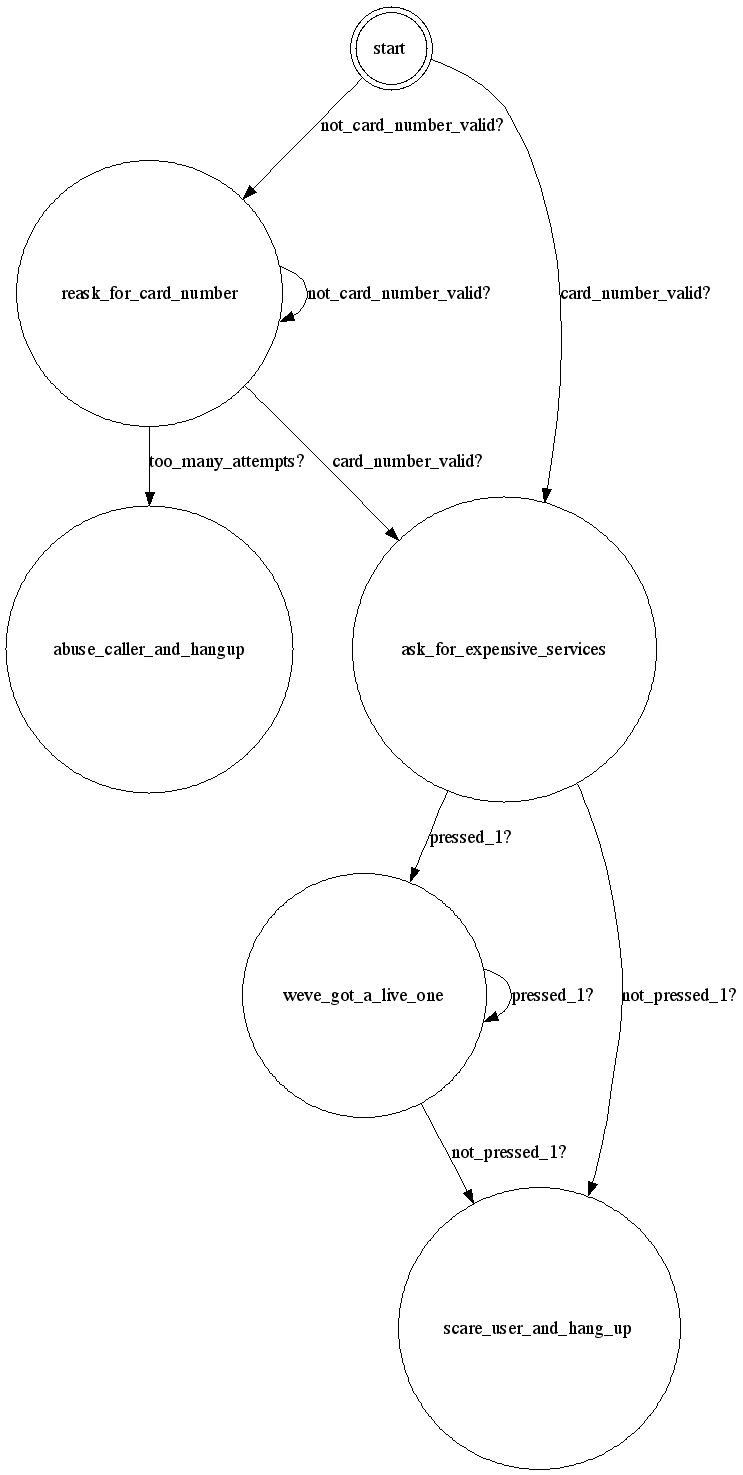
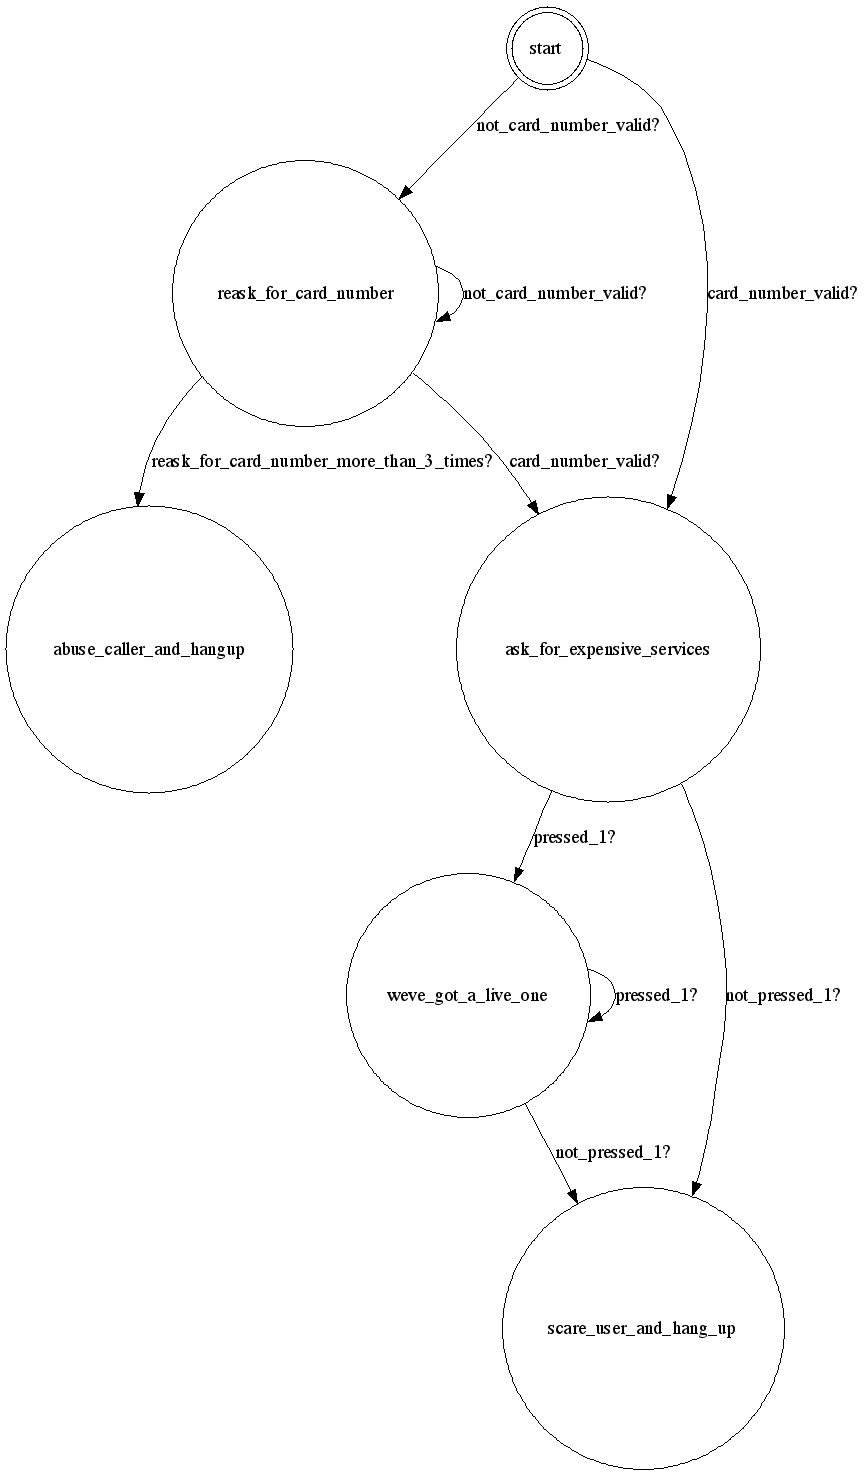
workflow view, showing png graph w/size toggle

diff --git a/twilio-app/public/javascripts/workflow.js b/twilio-app/public/javascripts/workflow.js
@@ -1,0 +1,43 @@
+var Workflow = function () {
+  var self = {}, imageStates = {};
+
+  self.imageStates = imageStates;
+
+  self.initialize = function () {
+    console.log("binding to click for the image...");
+    $('#workflow-graph').click(self.toggleWorkflowImageSize);
+  };
+
+  self.toggleWorkflowImageSize = function (event) {
+    console.log("toggle the workflow image size");
+    self.x = event;
+    var img = event.target;
+    if ( imageStates[img.src] == null ) {
+      console.log("initializing for %s", img.src);
+      imageStates[img.src] = {
+        state: "min",
+        naturalHeight: img.naturalHeight,
+        naturalWidth:  img.naturalWidth,
+        reducedHeight: img.clientHeight,
+        reducedWidth:  img.clientWidth
+      };
+    }
+
+    if ( imageStates[img.src].state == "min" ) {
+      console.log("maximizing");
+      imageStates[img.src].state = "max";
+      $(img).height(imageStates[img.src].naturalHeight);
+      $(img).width(imageStates[img.src].naturalWidth);
+    }
+    else {
+      console.log("restoring");
+      imageStates[img.src].state = "min";
+      $(img).height(imageStates[img.src].reducedHeight);
+      $(img).width(imageStates[img.src].reducedWidth);
+    }
+  };
+
+  return self;
+}();
+
+$().ready(Workflow.initialize);

diff --git a/twilio-app/public/stylesheets/app.css b/twilio-app/public/stylesheets/app.css
@@ -1,9 +1,42 @@
+body {
+  background-image:      url(/images/awesome-ivr-official-seal-a6.7.png);
+  background-repeat:     no-repeat;
+  background-attachment: fixed;
+  background-position:   center; 
+  opacity: 25%;
+}
+
+#header {
+  height: 1em;
+  padding: 0.25em;
+  margin: 0.25em;
+}
+
 #left-bar {
   border: 1px solid #CCC;
   padding: 3px;
+  margin: 0.25em;
 }
 
 #main-content {
   border: 1px solid #CCC;
   padding: 3px;
+  margin: 0.25em;
+}
+
+#error-flash {
+  color: red;
+}
+
+.center {
+  margin-left: auto;
+  margin-right: auto;
+}
+.workflow-graph {
+  border: 1px solid #CCC;
+}
+
+.workflow-graph img {
+  width: 300px;
+  display: block;
 }

diff --git a/twilio-app/public/javascripts/application.js b/twilio-app/public/javascripts/application.js
@@ -1,2 +1,13 @@
 // Place your application-specific JavaScript functions and classes here
 // This file is automatically included by javascript_include_tag :defaults
+
+var Ivr = function() {
+  var self = {};
+
+  self.initialize = function () {
+  };
+
+  return self;
+}();
+
+$().ready(Ivr.initialize);

diff --git a/twilio-app/app/ivr_workflows/ccard.rb b/twilio-app/app/ivr_workflows/ccard.rb
@@ -16,7 +16,7 @@ card number, we attempt to upsel them on
     end
 
     state :reask_for_card_number do
-      transitions_to :abuse_caller_and_hangup,    :if => :too_many_attempts?
+      transitions_to :abuse_caller_and_hangup,    :if => :reask_for_card_number_more_than_3_times?
       transitions_to :reask_for_card_number,      :if => :not_card_number_valid?
       transitions_to :ask_for_expensive_services, :if => :card_number_valid?
     end

diff --git a/twilio-app/app/controllers/workflow_controller.rb b/twilio-app/app/controllers/workflow_controller.rb
@@ -1,3 +1,12 @@
 class WorkflowController < ApplicationController
   layout 'site'
+
+  def show
+    name = params[:id]
+    @workflow = Ivrflow.new_workflow name
+    @graph_png = "/workflows/#{name.downcase}.png"
+    if !File.exist?("#{RAILS_ROOT}/public#{@graph_png}")
+      flash[:error] = "You need to run 'rake ivr:render_workflows' in your app to generate the workflow graphs."
+    end
+  end
 end

diff --git a/twilio-app/lib/ivrflow.rb b/twilio-app/lib/ivrflow.rb
@@ -6,10 +6,18 @@ class Ivrflow
     @@ivr_flows
   end
 
+  def self.new_workflow name
+    if @@ivr_flows[name]
+      name.constantize.new
+    else
+      nil
+    end
+  end
+
   def self.desc d
     @@ivr_flows ||= {}
     puts "Self: #{self}"
-    @@ivr_flows[self] = {
+    @@ivr_flows[self.to_s] = {
       :desc => d
     }
   end

diff --git a/twilio-app/app/controllers/console_controller.rb b/twilio-app/app/controllers/console_controller.rb
@@ -10,6 +10,7 @@ class ConsoleController < ApplicationController
       { :id => 3, :name => 'active session3' },
       { :id => 4, :name => 'active session4' },
     ]
+    @registered_workflows = Ivrflow.registered_ivr_flows
     respond_to do |fmt|
       fmt.json { render :json => @active_sessions }
     end
